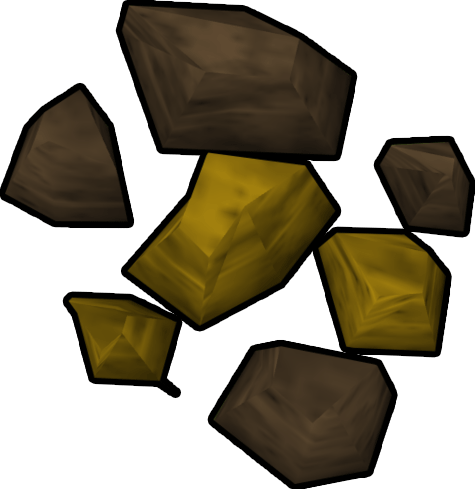
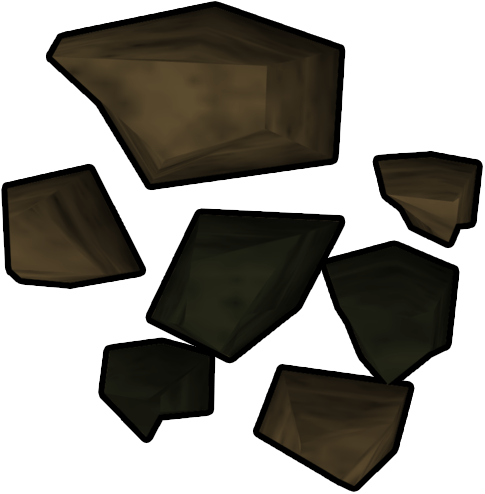
afk coal cop seren added info

diff --git a/app/servergame.js b/app/servergame.js
@@ -1,14 +1,18 @@
 rockTypes = [
     //id, name, cost, exp, description, required, baseTime
     new rockType(0, "Copper", 24, 35, "Requires level 1 to mine (24gp)", 1, 2),
-    new rockType(1, "Tin", 24, 35, "Requires level 1 to mine (24gp)", 1, 2),
+    new rockType(1, "Tin", 34, 40, "Requires level 5 to mine (34gp)", 5, 2),
     new rockType(2, "Iron", 50, 70, "Requires level 15 to mine (50gp)", 15, 3),
     new rockType(3, "Silver", 90, 80, "Requires level 20 to mine (90gp)", 20, 5),
-    new rockType(4, "Coal", 100, 100, "Requires level 30 to mine (100gp)", 30, 8),
-    new rockType(5, "Gold", 180, 130, "Requires level 40 to mine (180gp)", 40, 10),
-    new rockType(6, "Mithril", 190, 160, "Requires level 55 to mine (190gp)", 55, 10),
-    new rockType(7, "Adamantite", 480, 190, "Requires level 70 to mine (480gp)", 70, 10),
-    new rockType(8, "Runite", 3840, 250, "Requires level 85 to mine (3840gp)", 85, 10)
+    new rockType(4, "Con. Cop.", 24, 35, "Requires level 25 to mine (24gp)", 25, 2),
+    new rockType(5, "Coal", 100, 100, "Requires level 30 to mine (100gp)", 30, 8),
+    new rockType(6, "Gold", 180, 130, "Requires level 40 to mine (180gp)", 40, 10),
+    new rockType(7, "Con. Coal", 100, 100, "Requires level 50 to mine (100gp) - AFK", 50, 8),
+    new rockType(8, "Mithril", 190, 160, "Requires level 55 to mine (190gp)", 55, 10),
+    new rockType(9, "Con. Gold", 180, 130, "Requires level 65 to mine (180gp) - AFK", 65, 10),
+    new rockType(10, "Adamantite", 480, 190, "Requires level 70 to mine (480gp)", 70, 10),
+    new rockType(11, "Runite", 3840, 250, "Requires level 85 to mine (3840gp)", 85, 10),
+    new rockType(12, "Seren", 1860, 296, "Requires level 89 to mine (1860gp) - AFK", 89, 10)
   ];
 
 //allows nodeJS to access it
@@ -32,7 +36,7 @@ pickTypes = [
     new pickType(3, "Mithril", 2100, 21, "Requires level 21 to wear"),
     new pickType(4, "Adamantite", 3200, 31, "Requires level 31 to wear"),
     new pickType(5, "Runite", 32000, 31, "Requires level 41 to wear"),
-    new pickType(6, "Dragon", 1071478, 31, "Requires level 61 to wear")
+    new pickType(6, "Dragon", 1871478, 31, "Requires level 61 to wear")
   ];
 
 //allows nodeJS to access it

diff --git a/public/javascript/game.js b/public/javascript/game.js
@@ -8,6 +8,7 @@ var isMining = false;
 var muted = false;
 var currPick = 0;
 var shopWindowOpen = false;
+var afkCount = 0;
 
 function doClick() {
   if (firstLoad) {
@@ -20,6 +21,10 @@ function doClick() {
   }
    if (!isMining) {
      isMining = true;
+     if (currRock == 12 || currRock == 7 || currRock == 9 || currRock == 4) {
+         afkCount = (Math.random() * 10) + 6;
+         document.getElementById('rock_' + currRock).style.background = "#99CCFF";
+     }
      mineRock(currRock);
    }
 }
@@ -95,7 +100,7 @@ function mineRock(id) {
   $.ajax({ //Send a get request to the server with which pickaxe to buy
      type: "GET",
      url: "./game/mineRock",
-     data: "id=" + id + "&pick=" + currPick + "&level=" + level, //send the id of the rock as a param //add pickaxe as another param
+     data: "id=" + id + "&pick=" + currPick + "&level=" + level + "&afkcount=" + afkCount, //send the id of the rock as a param //add pickaxe as another param
      success: function(data) {
          if (data == "notunlocked") {
              stopMining();
@@ -118,6 +123,13 @@ function mineRock(id) {
                        document.getElementById('shopWindow').innerHTML = data;
                    }
                  });
+                 if (afkCount > 0) {
+                     afkCount--;
+                     mineRock(id);
+                     isMining = true;
+                 } else {
+                     document.getElementById('rock_' + currRock).style.background = "white";
+                 }
             }
           });
         }
@@ -168,6 +180,8 @@ function choosePick(id) {
 }
 
 function chooseRock(id) {
+  afkCount = 0;
+  document.getElementById('rock_' + currRock).style.background = "white";
   if (isMining) {
     return;
   }

diff --git a/app/routes.js b/app/routes.js
@@ -101,6 +101,10 @@ module.exports = function(app, passport) {
         });
     });
 
+    app.get('/info', function(req, res) {
+        res.render('info.ejs');
+    });
+
     // =====================================
     // LOGOUT ==============================
     // =====================================
@@ -209,7 +213,7 @@ module.exports = function(app, passport) {
                  req.user.save(function(err) {
                      if (err)
                          throw err;
-                     res.send(req.param('id') + ' ' + user.stats.exp + ' ' + user.stats.level);
+                     res.send(req.param('id') + ' ' + user.stats.exp + ' ' + user.stats.afkCount);
                  });
           }, miningTime * 1000);
       } else {

diff --git a/config/passport.js b/config/passport.js
@@ -67,11 +67,12 @@ module.exports = function(passport) {
                 newUser.stats.gold = 0;
                 newUser.stats.maxGold = 0;
                 newUser.stats.level = 1;
-                newUser.stats.rocksUnlocked = 1;
+                newUser.stats.rocksUnlocked = 0;
                 newUser.stats.exp = 0;
                 newUser.stats.pickaxes = [0];
                 newUser.stats.pickEquipped = 0;
                 newUser.stats.inventory = [];
+                newUser.stats.afkCount = 0;
 
                 // save the user
                 newUser.save(function(err) {

diff --git a/config/database.js b/config/database.js
@@ -1,6 +1,6 @@
 // config/database.js
 module.exports = {
 
-    //'url' : 'mongodb://a:a@apollo.modulusmongo.net:27017/ym2axIhi' // looks like mongodb://<user>:<pass>@mongo.onmodulus.net:27017/Mikha4ot
-    'url' : 'mongodb://heroku_admin:Marmoset93$$@ds047642.mongolab.com:47642/heroku_4lhh9rtj'
+    'url' : 'mongodb://a:a@apollo.modulusmongo.net:27017/ym2axIhi' // looks like mongodb://<user>:<pass>@mongo.onmodulus.net:27017/Mikha4ot
+    //'url' : 'mongodb://heroku_admin:Marmoset93$$@ds047642.mongolab.com:47642/heroku_4lhh9rtj'
 };

diff --git a/app/models/user.js b/app/models/user.js
@@ -18,7 +18,7 @@ var userSchema = mongoose.Schema({
         rocksUnlocked: Number,
         pickaxes     : Array,
         pickEquipped : Number,
-        inventory    : Array
+        inventory    : Array,
     }
 });
 

diff --git a/public/stylesheet/style.css b/public/stylesheet/style.css
@@ -44,7 +44,7 @@ body {
 
 [id^="rock_"] {
   float: left;
-  padding-right: 10px;
+  margin-right: 10px;
 }
 
 #rockarea {
